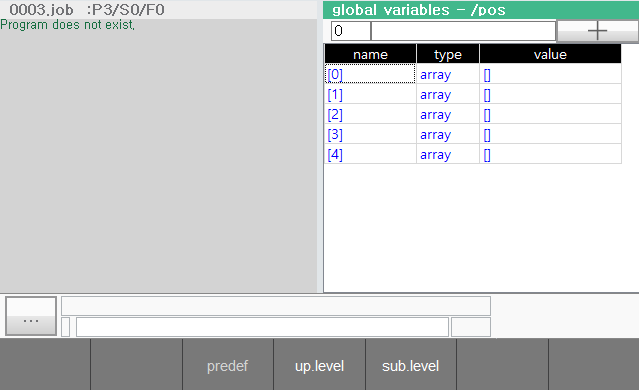
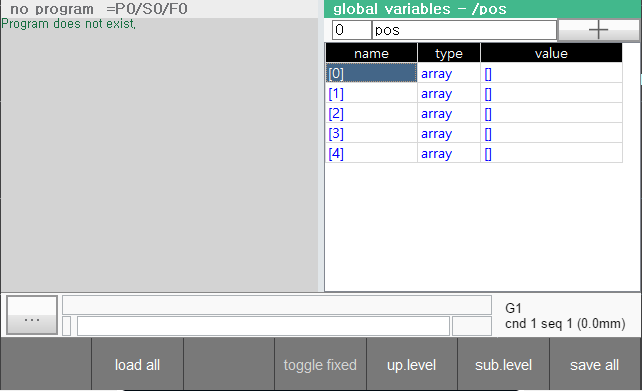
[HIXM-1159] 사양 변경 : 1) 전역 최상위 배열은 무조건 csv 로 저장되도록. 2) fixed 사양 추가.

diff --git a/6-monitoring/8-global-variable/3-var-files.md b/6-monitoring/8-global-variable/3-var-files.md
@@ -1,0 +1,104 @@
+# 6.8.3 Variable files
+
+변수 값들은 전원을 꺼도 보존되어야 하므로 파일로도 저장되는데, 전역변수는 종류에 따라 아래의 2가지 형태로 저장됩니다.
+
+Variable values are also saved as files because they must be preserved even when powered off, and global variables are stored in two forms, depending on the type:
+
+<table>
+  <thead>
+    <tr>
+      <th style="text-align:left">Type</th>
+      <th style="text-align:left">Pathname</th>
+      <th style="text-align:left">Description</th>
+    </tr>
+  </thead>
+  <tbody>
+    <tr>
+      <td style="text-align:left">
+        Global root array variables
+      </td>
+      <td style="text-align:left">MAIN/project/vars/*.csv</td>
+      <td style="text-align:left">One file is created for each variable, and the file title is the same as the variable name.</td>
+    </tr>
+	 <tr>
+      <td style="text-align:left">
+        Other variables
+      </td>
+      <td style="text-align:left">MAIN/project/vars/vars.json</td>
+      <td style="text-align:left">All other global variables are saved as a single file.</td>
+    </tr>
+	</tbody>
+</table>
+
+<br>
+
+
+## vars/.csv file
+
+When you open the folder `MAIN/project/vars/` in File-manager, a file named `weld_points.csv` is created. The variables specified as the predefined create a .csv file that is the same as the variable name, and when released from predefined, the file is automatically deleted.
+
+![](../../_assets/tp630/panel-gvar/csv0.png)
+
+Copy this file via USB memory or FTP and open it on your PC. The .csv file is a very simple text format standard that expresses comma-separated values.
+
+Refer to: [Wikipedia: Comma-separated values](https://en.wikipedia.org/wiki/Comma-separated_values)
+
+The .csv file represents a single two-dimensional table. The columns are separated by commas and rows are spearated by line-feed.
+
+![](../../_assets/tp630/panel-gvar/csv1.png)
+
+The csv file containing the procedure building up the `weld_points` two-dimensional array, in order.
+
+For each row, the 1st column is the index, the 2nd column is the type, and the 3rd ~ last columns are the values. The 1st row describes this as the header of the table.
+
+The 2nd row is the row that creates the top level, that is, `weld_points` itself. Therefore, the index column is empty, type is array, and number is 10. In other words, weld_points[10] is created, and 10 elements are filled with the default value of zeroes.
+
+```python
+, , array, 10
+```
+
+The following rows generate and assign pose type values to the elements of `weld_points[0]`.
+
+```python
+[0][0][0], Pose, 0.000, 0.000, 0.000, 0.000, 0.000, 0.000, "base"
+[0][0][1], Pose, 0.000, 0.000, 0.000, 0.000, 0.000, 0.000, "base"
+...
+```
+
+If 100 rows are performed for `weld_points[0]`, the following rows are followed by the action for `weld_points[1]` as shown below:
+
+```python
+[1][1], array; 100
+[1][1][0], Pose; 0.000, 0.000, 0.000, 0.000, 0.000, 0.000, "base"
+[1][1][1], Pose; 0.000, 0.000, 0.000, 0.000, 0.000, 0.000, "base"
+[1][1][2], Pose; 0.000, 0.000, 0.000, 0.000, 0.000, 0.000, "base"
+...
+```
+
+You can double-click the .csv file in File-manager to open it with Microsoft Excel and edit it. Save as `Ctrl+S` or `Save` button when editing is done.
+
+![](../../_assets/tp630/panel-gvar/csv2.png)
+
+Saving in Excel results in unnecessary commas, as shown below, and the quotation marks in the coordinate-system disappear, resulting in a slight change in format. It can't be helped because Excel handles .csv like this. Anyway, the Hi6 controller also recognizes that kind of format, so it doesn't matter.
+
+```python
+, , array,10,,,,,,
+[0][0], array,100,,,,,,
+[0][0][0], Pose,0,90,10,0,20,0,
+[0][0][1], Pose,0,0,0,0,0,0,base
+[0][0][2], Pose,0,10,0,0,0,0,robot
+[0][0][3], Pose,0,20,0,0,0,0,base
+[0][0][4], Pose,0,0,0,0,0,0,base
+[0][0][5], Pose,0,0,0,0,0,0,base
+```
+
+<br>
+
+## Loading .csv
+
+You can overwrite the edited file into `MAIN/project/vars/` again, but it is not automatically reflected in memory.
+
+When you click the [F2: load all] button in the Global Variables window, all variable files in the `vars/` folder are reloaded to memory.
+(Please note that deleting the variable file and clicking [F2: load all] will also delete the corresponding variable in memory.)
+
+![](../../_assets/tp630/panel-gvar/fixed-var.png)

diff --git a/6-monitoring/8-global-variable/2-array-object.md b/6-monitoring/8-global-variable/2-array-object.md
@@ -1,0 +1,82 @@
+# 6.8.2 Array and object
+
+## Creating an array
+
+We will now use an example of generating a 5x200 two-dimensional pose array variable named `pos`.
+Create a variable named `pos` using the method described above.
+
+![](../../_assets/tp630/panel-gvar/gv-new-arr1.png)
+
+
+Select the `type` column and press the ENTER key. The Create Variable dialog box appears as shown below.
+
+![](../../_assets/tp630/panel-gvar/gv-new-arr2.png)
+
+Select `Pose` in the Type list. If you enter 5,200 for the number of elements and press the OK button, the type of pos changes to the array of Pose[5][200].
+
+![](../../_assets/tp630/panel-gvar/gv-new-arr3.png)
+
+{% hint style="warning" %}
+\[Warning\] Be aware that defining an array that is too large may take longer to save or load and may fail to save automatically in the event of a power failure.
+{% endhint %}
+
+
+## Viewing and changing the array element value
+
+The value of the array variable is displayed only as [], and the values of the elements are not displayed.
+Select the `value` column and press the ENTER key or click the [F5: sub.level] button to expand the array to a lower level and view the element values.
+
+![](../../_assets/tp630/panel-gvar/gv-arr-level1.png)
+
+You can also change the value or type for array elements in the way described above.  
+
+In a 2-dimensional array `pos`, `pos[0]` ~ `pos[4]` are also arrays. Press ENTER or [F5] to continue down to the lower level. The level and index of the array currently displayed can be found in the global variables panel's title bar.
+
+Click the [F4: up.level] button or press the ESC key to go back up to the higher level.
+
+![](../../_assets/tp630/panel-gvar/gv-arr-level2.png)
+
+Because the array displays only 100 elements at the same time, by default you can only see the range of [0] to [99] indexes. If you change the value of the Start Index editbox in the upper left corner, you can see other ranges of elements. For example, if you enter 190 in the Start Index at `/pos[4]`, you can see the elements of [190]~[199].
+
+## Viewing and changing object property values
+
+Select the `value` column of the object variable and press the ENTER key or click the [F5: sub.level] button to expand the object to a lower level and view the property values. The operation method is similar to the array variable. However, the Startup Index editbox is not used.
+
+![](../../_assets/tp630/panel-gvar/gv-obj2.png)
+
+
+
+
+<br>
+
+## Fixed-variable
+
+For example, you have created a large number of poses named `weld_points` in the Global Variables window, and by executing below assignment statement all data can be deleted.
+
+```python
+weld_points=0
+```
+
+By specifying the variable as fixed, you can prevents this mistake.
+
+![](../../_assets/tp630/panel-gvar/fixed-var.png)
+
+전역변수 창의 최상위 레벨에서 배열 변수를 선택하고 [F4: 고정 토글]을 누르면, 타입이 `array`에서 `F.array` (fixed-array)로 변경됩니다.
+고정 변수로 지정되면, 대입문으로 다른 값을 대입할 수 없습니다. `weld_points`가 fixed 2차원 배열일 때, 아래 각 대입문의 결과는 주석과 같습니다.
+
+If you select an array variable at the top level of the Global Variables window and press [F4: toggle fixed], the type changes from 'array' to 'F.array' (fixed-array).  
+If specified as a fixed variable, no other value can be assigned. When `weld_points` is a fixed 2-dimensional array, the result of each assignment statement below is the same as the comment.
+
+
+```python
+global weld_points  # ignored.
+global weld_points=0  # cannot assign error occurs
+weld_points=0  # cannot assign error occurs
+weld_points[2]=Array[30]  # new value can be assigned to an element
+weld_points[2][1]="light"  # new value can be assigned to an element
+weld_points[2][1].j2=90.5  # new value can be assigned to an property
+```
+
+[F4: 고정 토글]을 한번 더 수행하면 고정이 해제되면서 `F.array`가 다시 `array`로 원상복구됩니다.
+
+If [F4: toggle fixed] is performed again, fixed will be released and `F.array` will be restored to `array`.

diff --git a/SUMMARY.md b/SUMMARY.md
@@ -116,7 +116,8 @@
   * [6.7 Public Output](6-monitoring/7-user-output.md)
   * [6.8 Global Variables](6-monitoring/8-global-variable/README.md)
     * [6.8.1 Basic features](6-monitoring/8-global-variable/1-basic-feature.md)
-    * [6.8.2 Predefined-variable feature](6-monitoring/8-global-variable/2-predef.md)
+    * [6.8.2 Array and object](6-monitoring/8-global-variable/2-array-object.md)
+    * [6.8.3 Variable files](6-monitoring/8-global-variable/3-var-files.md)
   * [6.9 Local Variables](6-monitoring/9-local-variable.md)
   * [6.10 Operation Time](6-monitoring/10-op-info.md)
   * [6.11 History](6-monitoring/11-history.md)
